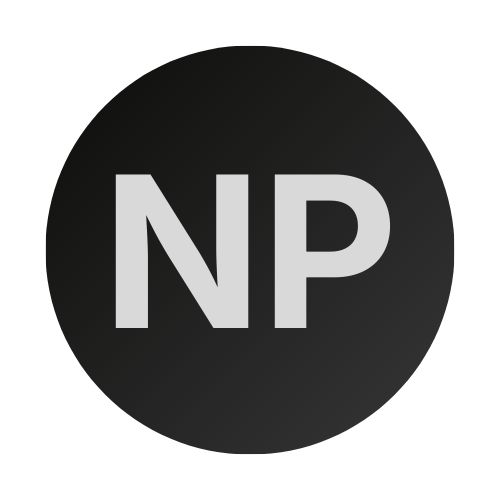
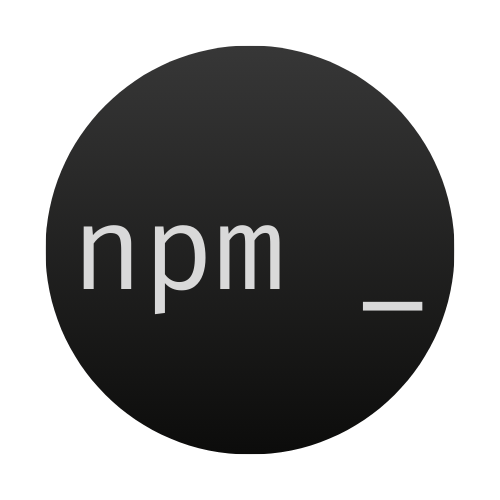
feat: add SocialPoster component, refine DigitalCardHorizontal styling by removing shadows, and update public assets.

diff --git a/src/app/components/SocialPoster.jsx b/src/app/components/SocialPoster.jsx
@@ -1,0 +1,205 @@
+import React, { useState } from "react";
+import { Mail, Globe, Sparkles, Phone, ArrowUpRight } from "lucide-react";
+import { toPng } from "html-to-image";
+import { QRCode } from "react-qrcode-logo";
+
+export default function SocialPoster() {
+  const [isDownloading, setIsDownloading] = useState(false);
+
+  const downloadImage = async () => {
+    setIsDownloading(true);
+    try {
+      const element = document.getElementById("social-poster-container");
+      if (!element) return;
+
+      const dataUrl = await toPng(element, {
+        quality: 1,
+        pixelRatio: 2, // 1080x1350 * 2 = 2160x2700 (Very high res)
+        backgroundColor: "#0c0c0b",
+      });
+
+      const link = document.createElement("a");
+      link.download = "pranav-freelance-poster.png";
+      link.href = dataUrl;
+      link.click();
+    } catch (err) {
+      console.error("Failed to generate poster:", err);
+      alert("Something went wrong while downloading. Please try again.");
+    } finally {
+      setIsDownloading(false);
+    }
+  };
+
+  return (
+    <div className="min-h-screen bg-[#0c0c0b] flex flex-col items-center p-8 overflow-x-hidden">
+      <div className="mb-6 text-white/50 text-sm max-w-sm text-center mt-10">
+        <p>This is your High-Res Social Media Poster.</p>
+        <p>Perfect for Instagram and WhatsApp (4:5 Ratio).</p>
+      </div>
+
+      <div className="flex gap-4 mb-10 z-50 relative">
+        <button
+          onClick={downloadImage}
+          disabled={isDownloading}
+          className="px-8 py-4 bg-white text-black font-bold uppercase tracking-widest text-sm rounded-full hover:scale-105 transition-transform disabled:opacity-50 disabled:hover:scale-100 disabled:cursor-wait"
+        >
+          {isDownloading ? "Generating Poster..." : "Download Poster (PNG)"}
+        </button>
+      </div>
+
+      {/* Wrapper to scale down visually on screens without affecting actual captured size */}
+      <div className="w-full flex justify-center items-start mb-20 origin-top">
+        {/* Dynamic height and width wrapper for responsive scaling preview */}
+        <div className="relative transform scale-[0.35] sm:scale-[0.5] md:scale-[0.6] lg:scale-[0.7] transform-gpu origin-top h-[472px] sm:h-[675px] md:h-[810px] lg:h-[945px] w-[378px] sm:w-[540px] md:w-[648px] lg:w-[756px] transition-all duration-300">
+          {/* Actual Poster Container - Exact 1080x1350 Canvas for IG Portrait */}
+          <div
+            id="social-poster-container"
+            style={{
+              width: "1080px",
+              height: "1350px",
+              backgroundColor: "#0c0c0b",
+            }}
+            className="absolute top-0 left-0 rounded-3xl overflow-hidden border border-white/15 font-body text-white flex flex-col"
+          >
+            <div
+              className="absolute inset-0 opacity-[0.03] pointer-events-none"
+              style={{
+                backgroundImage: `radial-gradient(circle, #fff 1.5px, transparent 1.5px)`,
+                backgroundSize: "45px 45px",
+              }}
+            ></div>
+
+            {/* Artifact-Free Native Glows - Uses pure CSS gradients instead of heavy blur filters */}
+            <div
+              className="absolute top-[-25%] left-[-25%] w-[1200px] h-[1200px] pointer-events-none"
+              style={{
+                background:
+                  "radial-gradient(circle at center, rgba(255,255,255,0.06) 0%, transparent 60%)",
+              }}
+            />
+            <div
+              className="absolute bottom-[-25%] right-[-30%] w-[1400px] h-[1400px] pointer-events-none"
+              style={{
+                background:
+                  "radial-gradient(circle at center, rgba(34,197,94,0.1) 0%, transparent 60%)",
+              }}
+            />
+
+            <div className="relative z-10 w-full h-full p-20 flex flex-col justify-between">
+              {/* Header */}
+              <div className="flex justify-between items-start w-full">
+                <div className="w-24 h-24 bg-linear-to-b from-white/10 to-transparent backdrop-blur-xl border border-white/20 rounded-full flex flex-col items-center justify-center">
+                  <span className="text-[18px] font-mono font-black text-white/90">
+                    npm _
+                  </span>
+                </div>
+                <div className="flex flex-col items-end opacity-40 mt-3">
+                  <span className="text-[15px] font-mono uppercase tracking-widest text-white leading-relaxed">
+                    13.4355° N
+                  </span>
+                  <span className="text-[15px] font-mono uppercase tracking-widest text-white leading-relaxed">
+                    77.7315° E
+                  </span>
+                </div>
+              </div>
+
+              {/* Huge Main Content block centered */}
+              <div className="flex flex-col items-center justify-center -mt-8">
+                {/* Ping Status */}
+                <div className="flex items-center gap-3 px-6 py-3 rounded-full bg-green-500/10 border border-green-500/20 backdrop-blur-md mb-12 w-fit mx-auto">
+                  <span className="relative inline-flex rounded-full h-3 w-3 bg-green-500"></span>
+                  <span className="flex items-center gap-2 text-[15px] uppercase tracking-[0.25em] font-bold text-green-400/90">
+                    <Sparkles size={16} />
+                    AVAILABLE FOR FREELANCE WORK
+                  </span>
+                </div>
+
+                <h1 className="text-[6.2rem] font-black leading-[1.05] tracking-tight mb-8 font-heading text-transparent bg-clip-text bg-linear-to-br from-white via-white to-white/40 text-center max-w-[95%] mx-auto">
+                  Upgrade Your Business With A Premium Website.
+                </h1>
+
+                <p className="text-[28px] font-light text-white/50 leading-relaxed text-center max-w-[80%] mx-auto mb-16">
+                  I design and build incredibly fast, modern websites that help
+                  your business attract more customers and dominate online.
+                </p>
+
+                {/* Services Grid (Giant format for print/poster) */}
+                <div className="flex flex-wrap justify-center gap-x-5 gap-y-6 max-w-[85%] mx-auto">
+                  {[
+                    "Custom Websites",
+                    "E-Commerce Stores",
+                    "Digital Branding",
+                    "WordPress Sites",
+                  ].map((service) => (
+                    <div
+                      key={service}
+                      className="px-7 py-4 rounded-full bg-white/5 border border-white/10 backdrop-blur-sm flex items-center justify-center"
+                    >
+                      <span className="text-[14px] font-bold text-white/70 tracking-widest uppercase leading-none mt-1">
+                        {service}
+                      </span>
+                    </div>
+                  ))}
+                </div>
+              </div>
+
+              {/* Footer Area with Contacts and QR */}
+              <div className="w-full flex justify-between items-end mt-16 pt-16 border-t border-white/10">
+                {/* Contact Block */}
+                <div className="flex flex-col gap-9 pb-2">
+                  <div className="flex items-center gap-6">
+                    <div className="w-16 h-16 rounded-full border border-white/10 bg-white/5 flex items-center justify-center">
+                      <Phone size={24} className="text-white/70" />
+                    </div>
+                    <div>
+                      <div className="text-[14px] text-white/40 uppercase tracking-[0.25em] mb-2 font-bold whitespace-nowrap">
+                        Call / WhatsApp
+                      </div>
+                      <div className="text-[26px] tracking-wide text-white/95 font-medium">
+                        +91 9945859958
+                      </div>
+                    </div>
+                  </div>
+
+                  <div className="flex items-center gap-6">
+                    <div className="w-16 h-16 rounded-full border border-white/10 bg-white/5 flex items-center justify-center">
+                      <Globe size={24} className="text-white/70" />
+                    </div>
+                    <div>
+                      <div className="text-[14px] text-white/40 uppercase tracking-[0.25em] mb-2 font-bold whitespace-nowrap">
+                        View Portfolio Site
+                      </div>
+                      <div className="text-[26px] tracking-wide text-white/95 font-medium">
+                        pra9v.site
+                      </div>
+                    </div>
+                  </div>
+                </div>
+
+                {/* QR Block */}
+                <div className="flex flex-col items-center">
+                  <div className="p-4 bg-linear-to-b from-white/10 to-white/5 backdrop-blur-2xl border border-white/20 rounded-2xl overflow-hidden flex items-center justify-center mb-5">
+                    <QRCode
+                      value="https://pra9v.site/"
+                      size={170}
+                      bgColor="transparent"
+                      fgColor="#ffffff"
+                      qrStyle="dots"
+                      eyeRadius={8}
+                    />
+                  </div>
+                  <div className="flex items-center gap-2">
+                    <span className="text-[14px] font-bold uppercase tracking-[0.3em] text-white/60 text-center">
+                      Scan to Visit
+                    </span>
+                    <ArrowUpRight size={18} className="text-white/60" />
+                  </div>
+                </div>
+              </div>
+            </div>
+          </div>
+        </div>
+      </div>
+    </div>
+  );
+}

diff --git a/src/app/components/DigitalCardHorizontal.jsx b/src/app/components/DigitalCardHorizontal.jsx
@@ -97,7 +97,7 @@ export default function DigitalCardHorizontal() {
       <div
         id="digital-card-horizontal-container"
         style={{ width: "746px", height: "420px", backgroundColor: "#0c0c0b" }}
-        className="relative rounded-3xl overflow-hidden border border-white/10 shrink-0 font-body text-white flex shadow-2xl shadow-white/5"
+        className="relative rounded-3xl overflow-hidden border border-white/10 shrink-0 font-body text-white flex"
       >
         {/* Structural Background Pattern */}
         <div
@@ -117,9 +117,9 @@ export default function DigitalCardHorizontal() {
           <div className="flex-1 flex flex-col justify-between pr-8 border-r border-white/10">
             {/* Header / Badges */}
             <div className="flex justify-between items-start w-full">
-              <div className="w-14 h-14 bg-linear-to-b from-white/10 to-transparent backdrop-blur-xl border border-white/20 rounded-full flex flex-col items-center justify-center shadow-lg shadow-white/5">
-                <span className="text-[11px] font-mono tracking-[0.2em] font-black text-white/90 uppercase">
-                  NPM
+              <div className="w-14 h-14 bg-linear-to-b from-white/10 to-transparent backdrop-blur-xl border border-white/20 rounded-full flex flex-col items-center justify-center">
+                <span className="text-[11px] font-mono font-black text-white/90">
+                  npm _
                 </span>
               </div>
             </div>
@@ -127,7 +127,7 @@ export default function DigitalCardHorizontal() {
             {/* Main Content */}
             <div className="flex flex-col mt-4">
               {/* Static Status Badge placed above name */}
-              <div className="flex items-center gap-2 px-3 py-1.5 rounded-full bg-green-500/10 border border-green-500/20 backdrop-blur-md shadow-[0_0_15px_rgba(34,197,94,0.1)] w-fit mb-4">
+              <div className="flex items-center gap-2 px-3 py-1.5 rounded-full bg-green-500/10 border border-green-500/20 backdrop-blur-md w-fit mb-4">
                 <span className="relative inline-flex rounded-full h-2 w-2 bg-green-500"></span>
                 <span className="flex items-center gap-1.5 text-[9px] uppercase tracking-[0.2em] font-bold text-green-400/90">
                   <Sparkles size={10} />
@@ -157,7 +157,7 @@ export default function DigitalCardHorizontal() {
                 ].map((service) => (
                   <div
                     key={service}
-                    className="px-3 py-1.5 rounded-full bg-white/5 border border-white/10 backdrop-blur-sm shadow-sm flex items-center justify-center"
+                    className="px-3 py-1.5 rounded-full bg-white/5 border border-white/10 backdrop-blur-sm flex items-center justify-center"
                   >
                     <span className="text-[8px] font-bold text-white/70 tracking-widest uppercase leading-none mt-px">
                       {service}
@@ -180,7 +180,7 @@ export default function DigitalCardHorizontal() {
             </div>
 
             <div className="flex flex-col items-center mt-2">
-              <div className="p-2.5 bg-linear-to-b from-white/10 to-white/5 backdrop-blur-2xl border border-white/20 rounded-2xl shadow-xl shadow-black/50 overflow-hidden flex items-center justify-center mb-3">
+              <div className="p-2.5 bg-linear-to-b from-white/10 to-white/5 backdrop-blur-2xl border border-white/20 rounded-2xl overflow-hidden flex items-center justify-center mb-3">
                 <QRCode
                   value="https://pra9v.site/"
                   size={85}
@@ -197,7 +197,7 @@ export default function DigitalCardHorizontal() {
 
             <div className="flex flex-col gap-3 w-full">
               <div className="flex items-center gap-3">
-                <div className="w-8 h-8 rounded-full border border-white/10 bg-white/5 flex items-center justify-center shadow-lg shadow-white/5">
+                <div className="w-8 h-8 rounded-full border border-white/10 bg-white/5 flex items-center justify-center">
                   <Mail size={13} className="text-white/70" />
                 </div>
                 <div>
@@ -211,7 +211,7 @@ export default function DigitalCardHorizontal() {
               </div>
 
               <div className="flex items-center gap-3">
-                <div className="w-8 h-8 rounded-full border border-white/10 bg-white/5 flex items-center justify-center shadow-lg shadow-white/5">
+                <div className="w-8 h-8 rounded-full border border-white/10 bg-white/5 flex items-center justify-center">
                   <Phone size={13} className="text-white/70" />
                 </div>
                 <div>
@@ -225,7 +225,7 @@ export default function DigitalCardHorizontal() {
               </div>
 
               <div className="flex items-center gap-3">
-                <div className="w-8 h-8 rounded-full border border-white/10 bg-white/5 flex items-center justify-center shadow-lg shadow-white/5">
+                <div className="w-8 h-8 rounded-full border border-white/10 bg-white/5 flex items-center justify-center">
                   <Globe size={13} className="text-white/70" />
                 </div>
                 <div>

diff --git a/src/app/components/DigitalCard.jsx b/src/app/components/DigitalCard.jsx
@@ -95,7 +95,7 @@ export default function DigitalCard() {
       <div
         id="digital-card-container"
         style={{ width: "420px", height: "746px", backgroundColor: "#0c0c0b" }}
-        className="relative rounded-3xl overflow-hidden border border-white/10 shrink-0 font-body text-white flex flex-col shadow-2xl shadow-white/5"
+        className="relative rounded-3xl overflow-hidden border border-white/10 shrink-0 font-body text-white flex flex-col"
       >
         {/* Structural Background Pattern */}
         <div
@@ -113,9 +113,9 @@ export default function DigitalCard() {
         <div className="relative z-10 w-full h-full p-8 flex flex-col">
           {/* Header Section */}
           <div className="flex justify-between items-start mb-10 w-full">
-            <div className="w-14 h-14 bg-linear-to-b from-white/10 to-transparent backdrop-blur-xl border border-white/20 rounded-full flex flex-col items-center justify-center shadow-lg shadow-white/5">
-              <span className="text-[11px] font-mono tracking-[0.2em] font-black text-white/90 uppercase">
-                NPM
+            <div className="w-14 h-14 bg-linear-to-b from-white/10 to-transparent backdrop-blur-xl border border-white/20 rounded-full flex flex-col items-center justify-center">
+              <span className="text-[11px] font-mono font-black text-white/90">
+                npm _
               </span>
             </div>
 
@@ -131,7 +131,7 @@ export default function DigitalCard() {
 
           <div className="flex-1 flex flex-col justify-center w-full relative">
             {/* Pulsing Status */}
-            <div className="flex items-center gap-2 px-3 py-1.5 rounded-full bg-green-500/10 border border-green-500/20 backdrop-blur-md w-fit mb-5 shadow-[0_0_15px_rgba(34,197,94,0.1)]">
+            <div className="flex items-center gap-2 px-3 py-1.5 rounded-full bg-green-500/10 border border-green-500/20 backdrop-blur-md w-fit mb-5">
               <span className="relative flex h-2 w-2">
                 <span className="animate-ping absolute inline-flex h-full w-full rounded-full bg-green-400 opacity-75"></span>
                 <span className="relative inline-flex rounded-full h-2 w-2 bg-green-500"></span>
@@ -166,7 +166,7 @@ export default function DigitalCard() {
               ].map((service) => (
                 <div
                   key={service}
-                  className="px-3.5 py-1.5 rounded-full bg-white/5 border border-white/10 backdrop-blur-sm shadow-sm flex items-center justify-center"
+                  className="px-3.5 py-1.5 rounded-full bg-white/5 border border-white/10 backdrop-blur-sm flex items-center justify-center"
                 >
                   <span className="text-[9px] font-bold text-white/70 tracking-widest uppercase leading-none mt-px">
                     {service}
@@ -183,7 +183,7 @@ export default function DigitalCard() {
             {/* Contact Info */}
             <div className="flex flex-col gap-3">
               <div className="flex items-center gap-3">
-                <div className="w-8 h-8 rounded-full border border-white/10 bg-white/5 flex items-center justify-center shadow-lg shadow-white/5">
+                <div className="w-8 h-8 rounded-full border border-white/10 bg-white/5 flex items-center justify-center">
                   <Phone size={13} className="text-white/70" />
                 </div>
                 <div>
@@ -197,7 +197,7 @@ export default function DigitalCard() {
               </div>
 
               <div className="flex items-center gap-3">
-                <div className="w-8 h-8 rounded-full border border-white/10 bg-white/5 flex items-center justify-center shadow-lg shadow-white/5">
+                <div className="w-8 h-8 rounded-full border border-white/10 bg-white/5 flex items-center justify-center">
                   <Mail size={13} className="text-white/70" />
                 </div>
                 <div>
@@ -211,7 +211,7 @@ export default function DigitalCard() {
               </div>
 
               <div className="flex items-center gap-3">
-                <div className="w-8 h-8 rounded-full border border-white/10 bg-white/5 flex items-center justify-center shadow-lg shadow-white/5">
+                <div className="w-8 h-8 rounded-full border border-white/10 bg-white/5 flex items-center justify-center">
                   <Globe size={13} className="text-white/70" />
                 </div>
                 <div>
@@ -227,7 +227,7 @@ export default function DigitalCard() {
 
             {/* QR Code */}
             <div className="flex flex-col items-center">
-              <div className="p-2 bg-linear-to-b from-white/10 to-white/5 backdrop-blur-2xl border border-white/20 rounded-2xl shadow-xl shadow-black/50 mb-2 overflow-hidden flex items-center justify-center">
+              <div className="p-2 bg-linear-to-b from-white/10 to-white/5 backdrop-blur-2xl border border-white/20 rounded-2xl mb-2 overflow-hidden flex items-center justify-center">
                 <QRCode
                   value="https://pra9v.site/"
                   size={74}

diff --git a/src/App.jsx b/src/App.jsx
@@ -8,16 +8,21 @@ import ProjectSection from "./app/components/ProjectSection";
 import SmoothScroll from "./app/components/SmoothScroll";
 import DigitalCard from "./app/components/DigitalCard";
 import DigitalCardHorizontal from "./app/components/DigitalCardHorizontal";
+import SocialPoster from "./app/components/SocialPoster";
 
 function App() {
   const isCardRoute = window.location.search.includes("card=true");
   const isCardHorizontalRoute = window.location.search.includes("card-h=true");
+  const isPosterRoute = window.location.search.includes("poster=true");
 
   if (isCardRoute) {
     return <DigitalCard />;
   }
   if (isCardHorizontalRoute) {
     return <DigitalCardHorizontal />;
+  }
+  if (isPosterRoute) {
+    return <SocialPoster />;
   }
 
   return (
